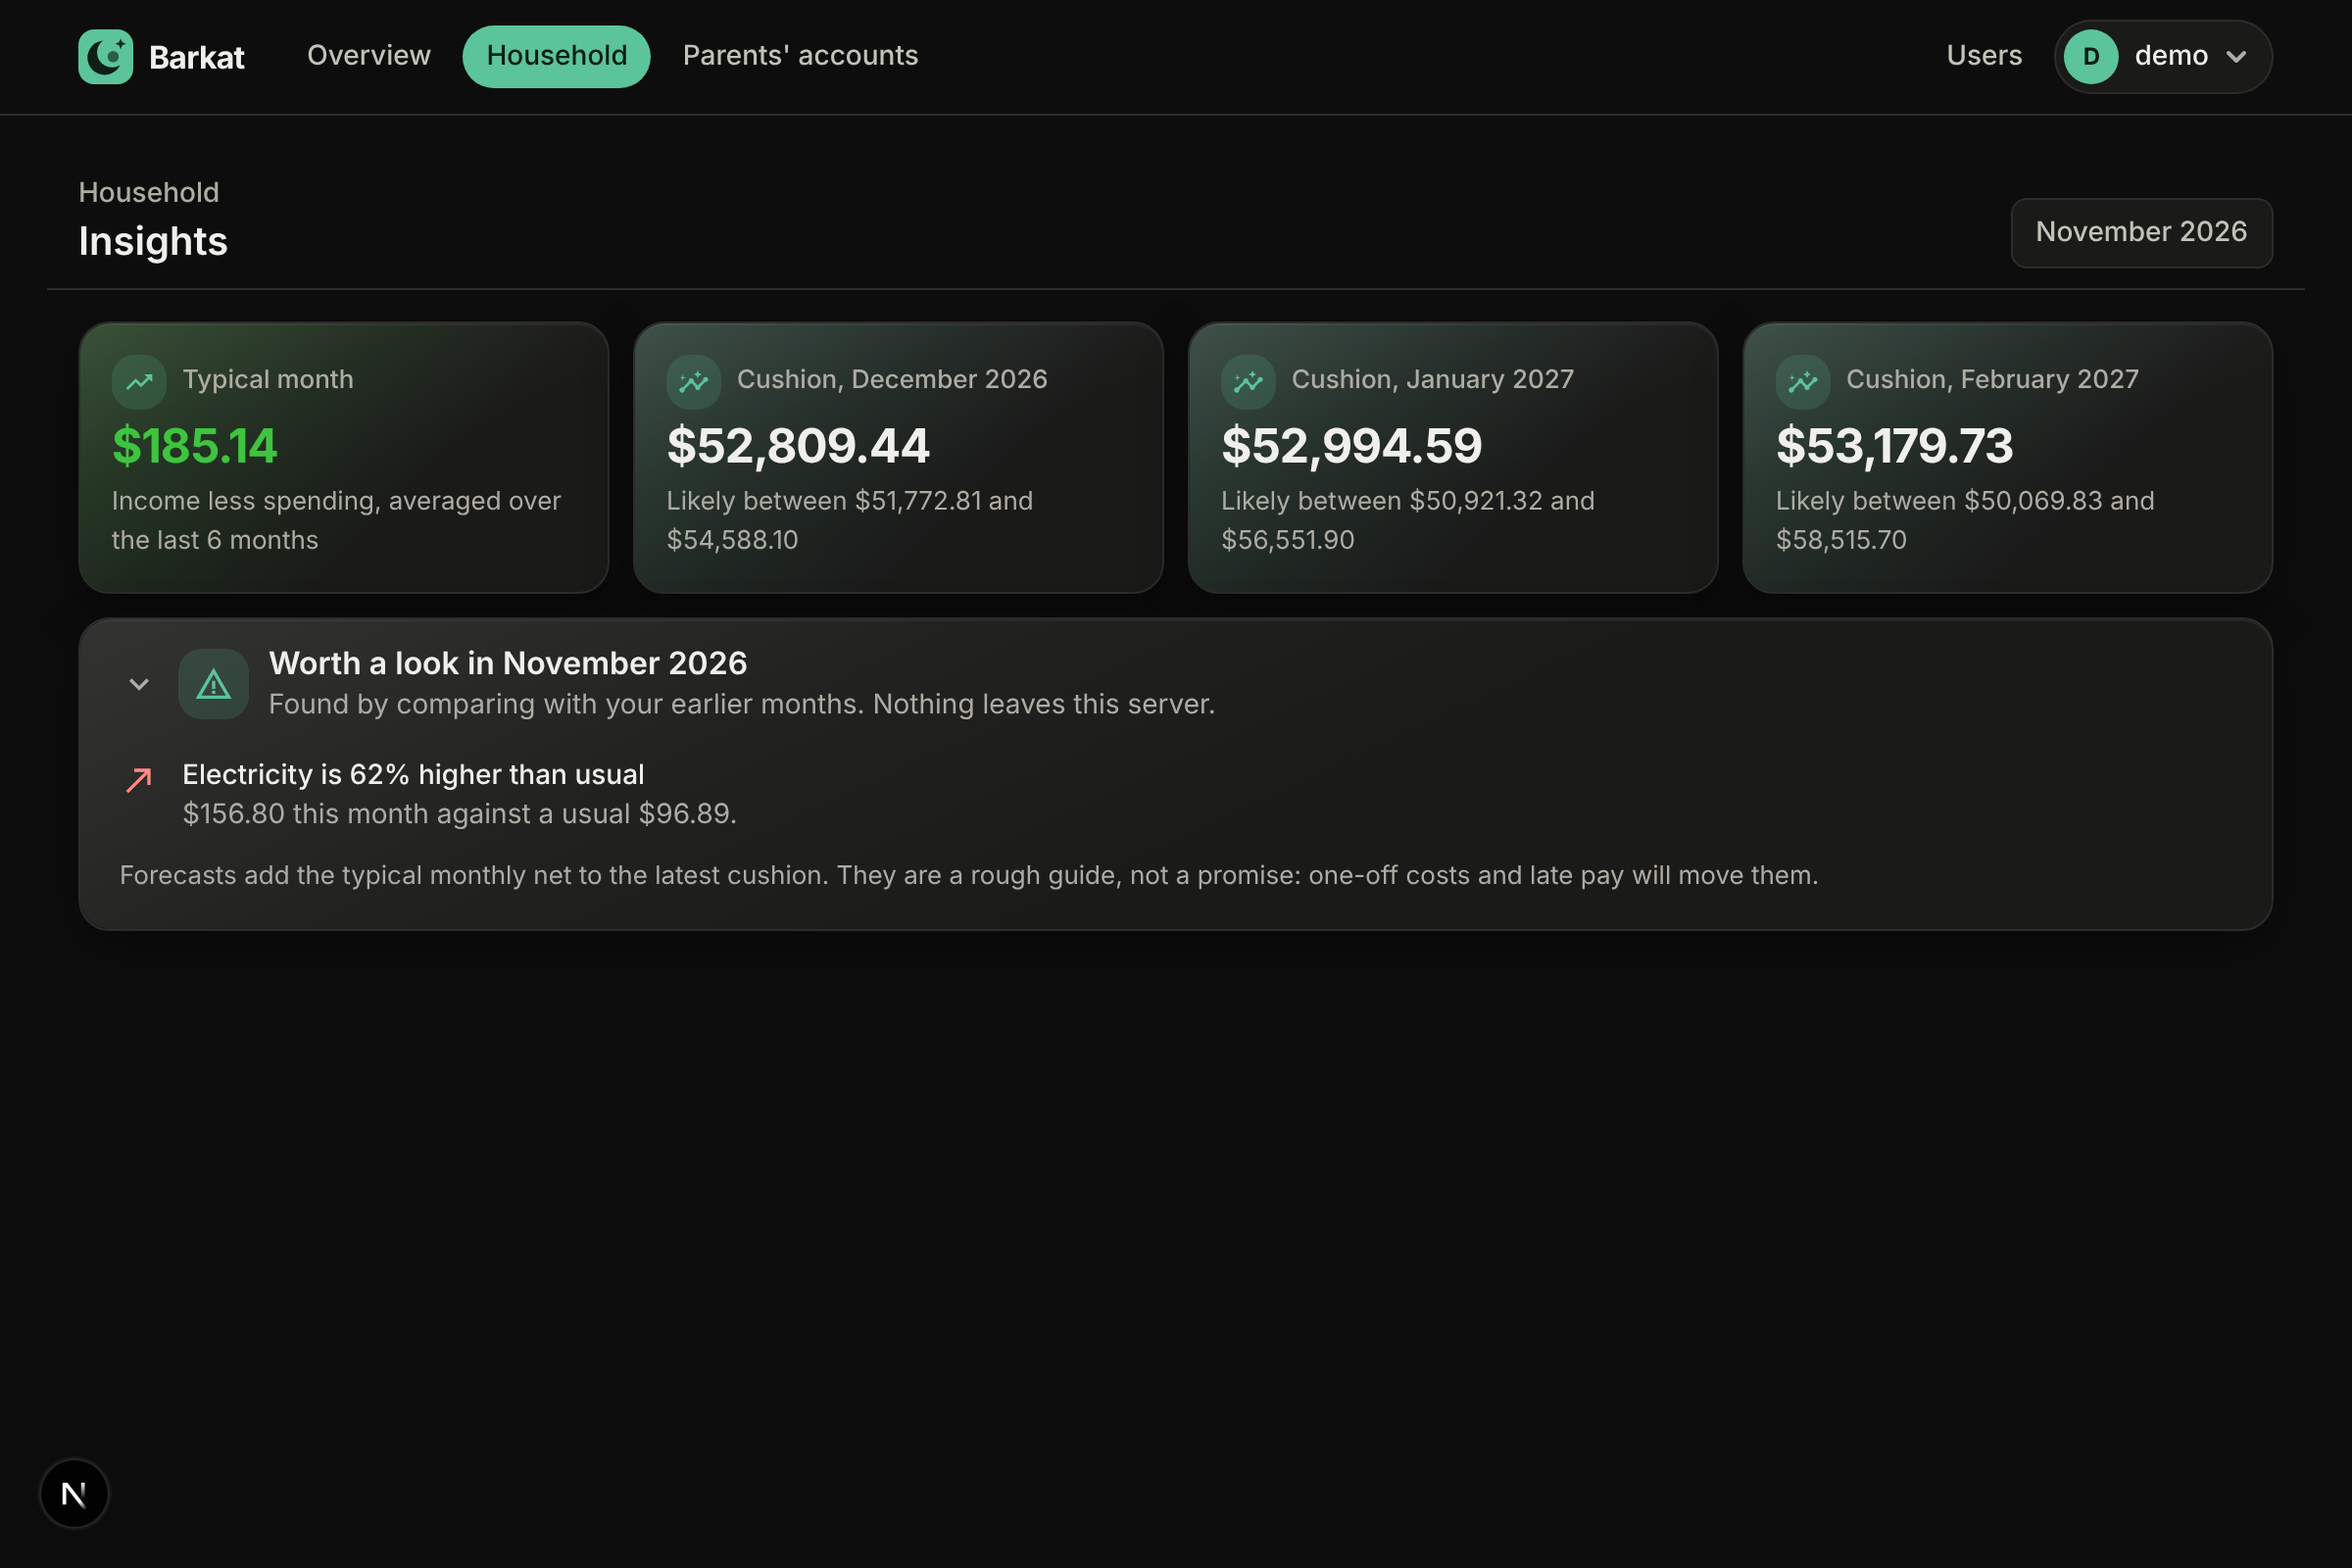
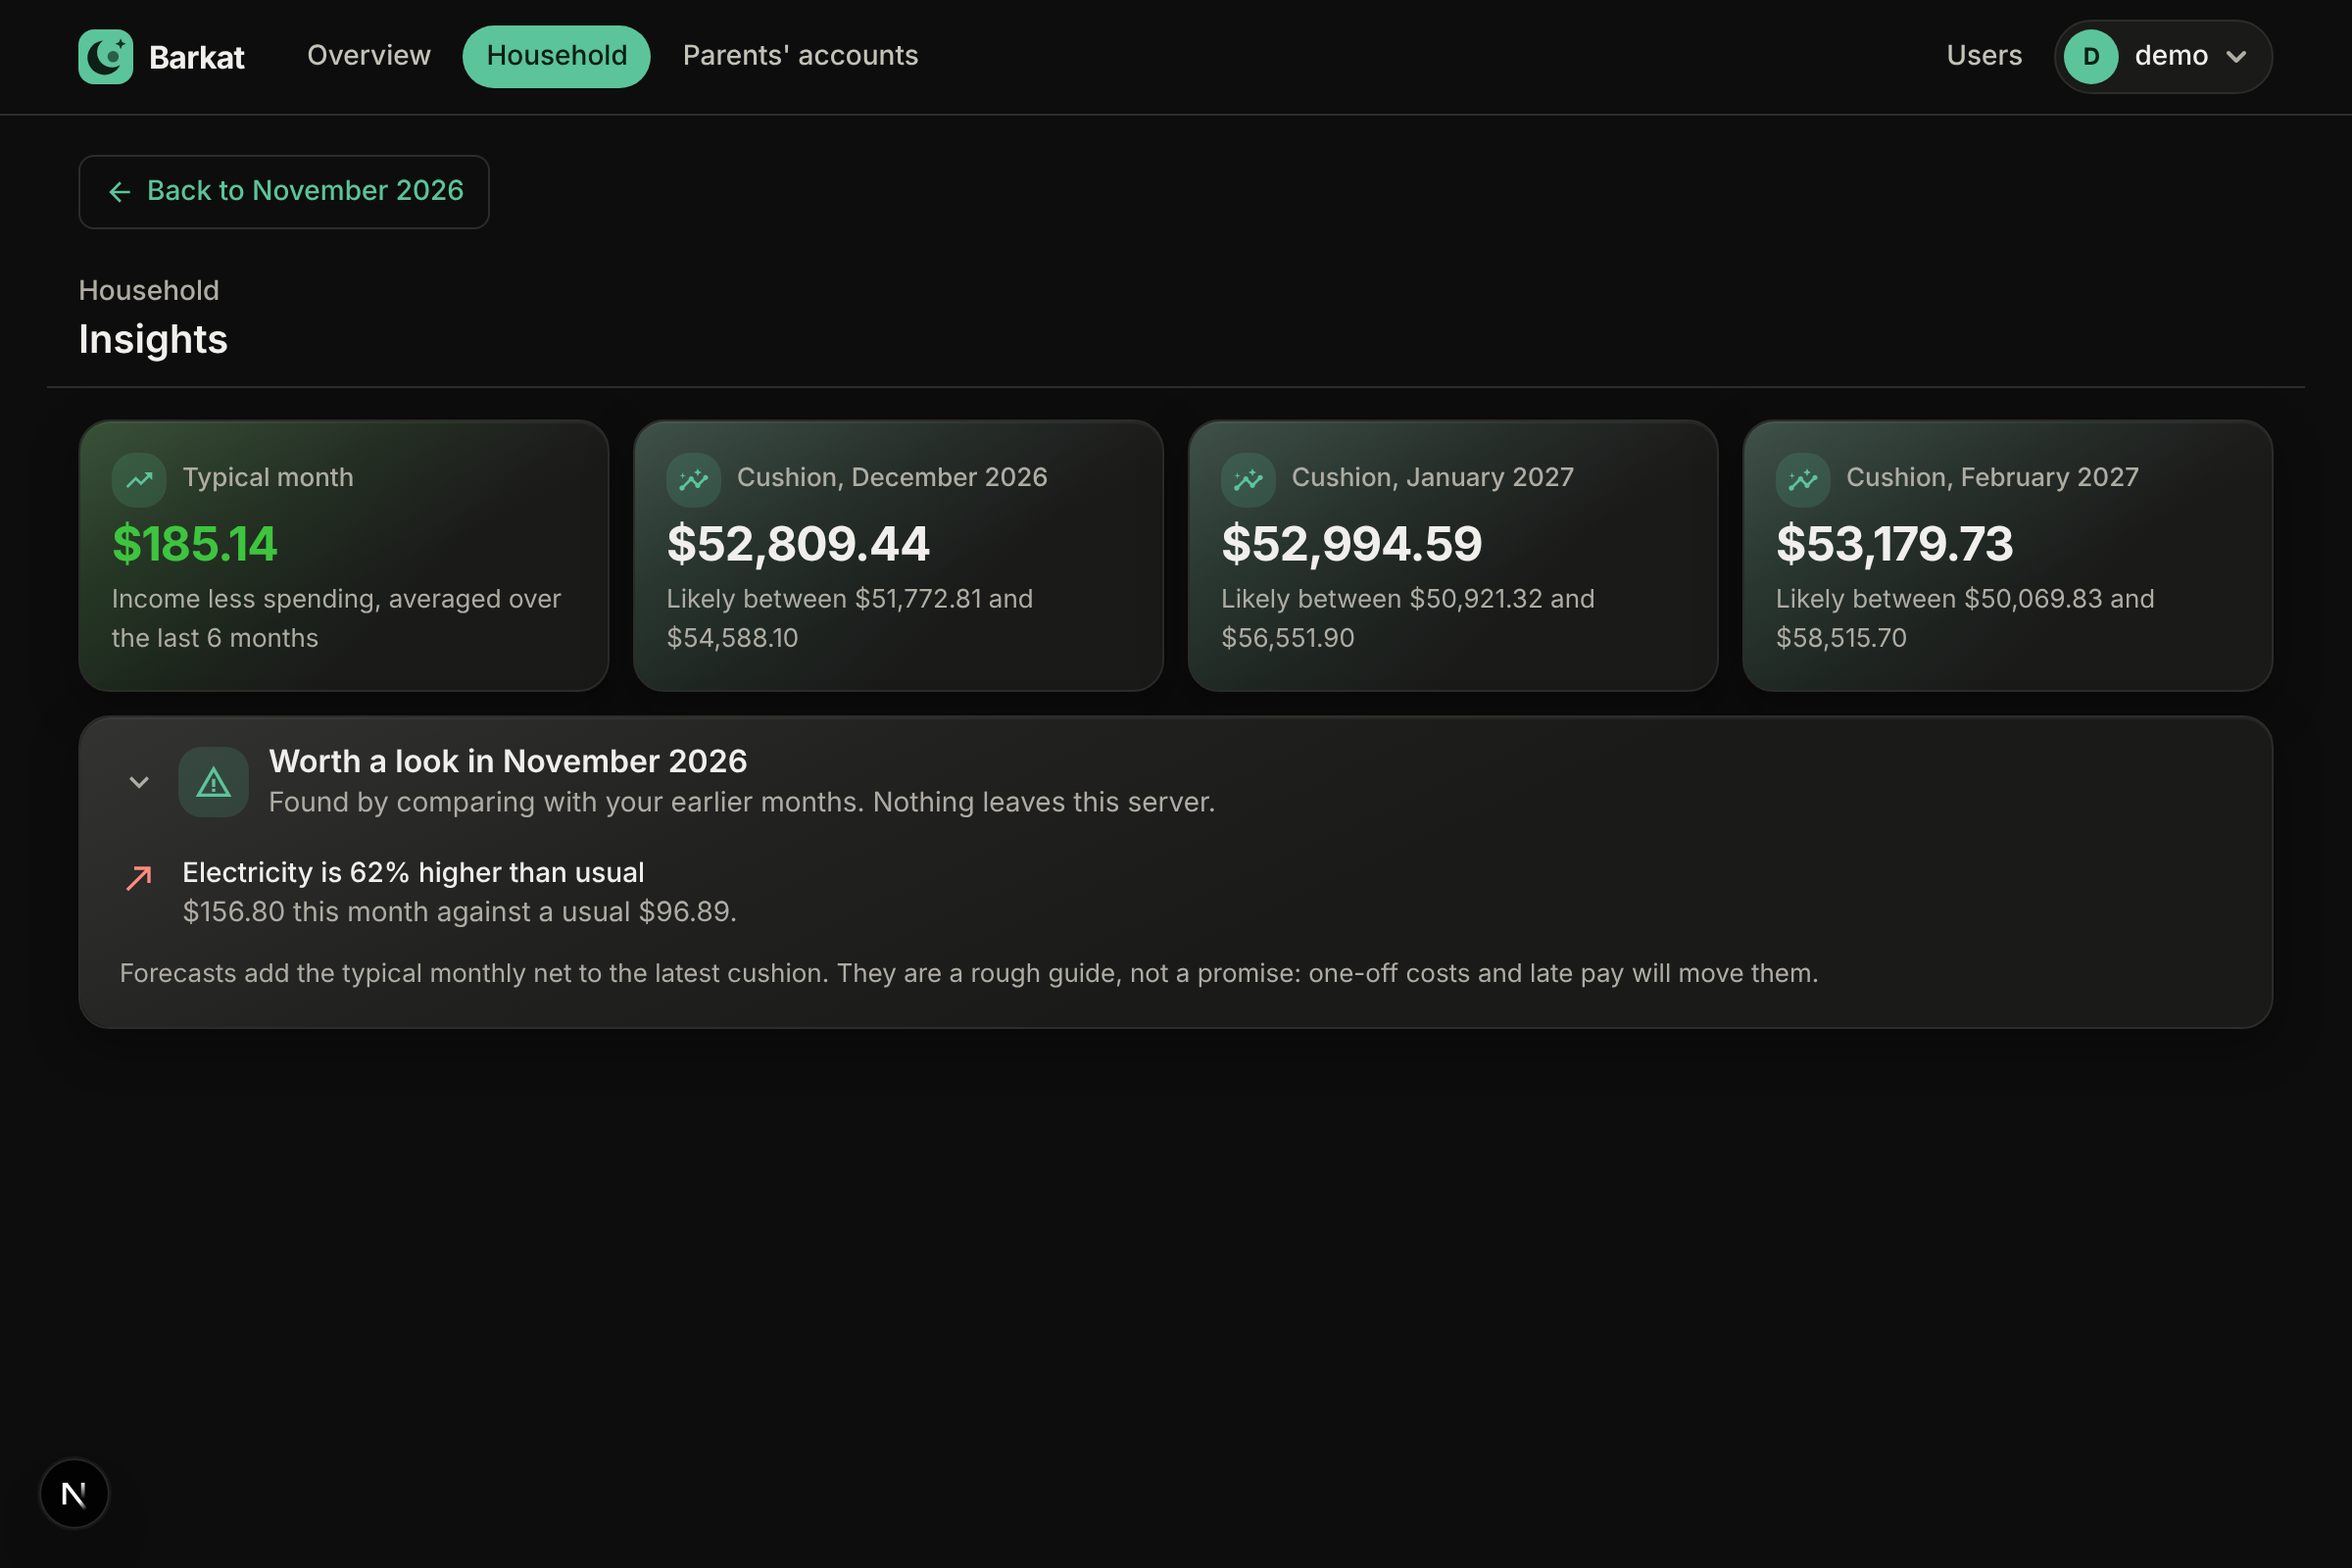
Use the back button on the Insights page
Claude-Session: https://claude.ai/code/session_01BwwsQpepoFFDE9bGD7rFmF

diff --git a/web/src/app/(app)/s/[spaceId]/insights/page.tsx b/web/src/app/(app)/s/[spaceId]/insights/page.tsx
@@ -1,6 +1,6 @@
-import Link from "next/link";
 import { notFound } from "next/navigation";
 import { MdInsights, MdNorthEast, MdSouthEast, MdTrendingUp, MdWarningAmber } from "react-icons/md";
+import { BackButton } from "@/components/BackButton";
 import { Collapsible } from "@/components/Collapsible";
 import { IconChip } from "@/components/IconChip";
 import { Tile } from "@/components/charts/Charts";
@@ -31,16 +31,16 @@ export default async function InsightsPage({ params }: { params: Promise<{ space
   const report = insightReport(months, now);
   const net = report.averageNet;
 
+  const back = report.latest ?? now;
+
   return (
     <>
+      <BackButton href={`/s/${spaceId}/${back}`}>Back to {monthLabel(back)}</BackButton>
       <div className="z-[15] md:sticky md:top-[var(--nav-h,3.5rem)] -mx-4 mb-4 flex flex-wrap items-end justify-between gap-3 border-b border-line bg-page px-4 py-2.5">
         <div>
           <p className="text-sm font-medium text-muted">{space.name}</p>
           <h1 className="text-xl font-semibold">Insights</h1>
         </div>
-        <Link href={`/s/${spaceId}/${report.latest ?? now}`} className="inline-flex h-9 items-center rounded-lg border border-line bg-surface px-3 text-sm font-medium text-ink2 transition hover:bg-surface2 hover:text-ink focus-visible:outline focus-visible:outline-2 focus-visible:outline-accent">
-          {monthLabel(report.latest ?? now)}
-        </Link>
       </div>
 
       {report.latest === null || report.basis < MIN_FORECAST ? (
